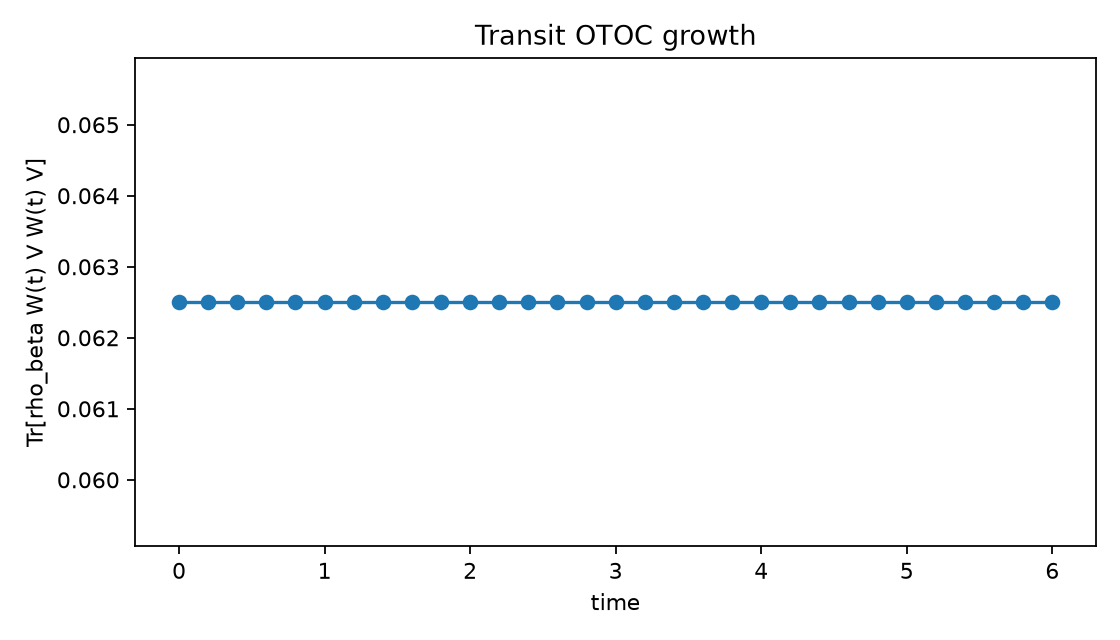
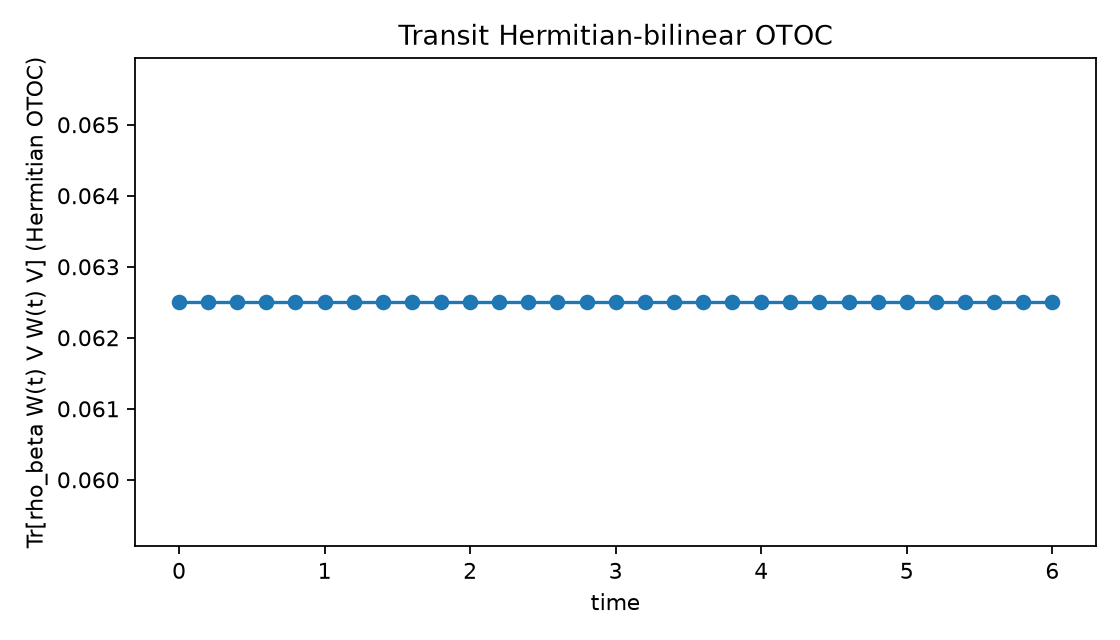
docs: clarify shared disorder and OTOC outputs

diff --git a/transit-meta-grammar/transit_syk.py b/transit-meta-grammar/transit_syk.py
@@ -216,6 +216,7 @@ def main() -> None:
     left_dim = left_majoranas_local[0].shape[0]
     right_dim = right_majoranas_local[0].shape[0]
 
+    # Shared disorder is intentional: both sides use the same deterministic coupling draw.
     disorder_rng = np.random.default_rng(DISORDER_SEED)
     h_left_local = syk_hamiltonian(left_majoranas_local, DEFAULT_J, disorder_rng)
     disorder_rng = np.random.default_rng(DISORDER_SEED)
@@ -383,8 +384,8 @@ def main() -> None:
     plt.figure(figsize=(7, 4))
     plt.plot(times, otoc_values, marker="o")
     plt.xlabel("time")
-    plt.ylabel("Tr[rho_beta W(t) V W(t) V]")
-    plt.title("Transit OTOC growth")
+    plt.ylabel("Tr[rho_beta W(t) V W(t) V] (Hermitian OTOC)")
+    plt.title("Transit Hermitian-bilinear OTOC")
     plt.tight_layout()
     plt.savefig(results_dir / "otoc_growth.png", dpi=160)
     plt.close()

diff --git a/transit-meta-grammar/README.md b/transit-meta-grammar/README.md
@@ -35,9 +35,9 @@ The script derives its output directory from `__file__`, so both invocations wri
 Runtime creates `transit-meta-grammar/results/` and writes:
 
 - `guard_summary.csv` — scalar guard probabilities, barriers, commutator norm, Choi/guard comparison, and runtime objective flags.
-- `guard_spectrum.csv` — eigenvalue spectrum of `Pi_1 Pi_2 Pi_1`, reported as `lambda = cos^2(theta)` with principal angles and barrier values.
+- `guard_spectrum.csv` — eigenvalue spectrum of `K^dagger K = Pi_1 Pi_2 Pi_1`, reported as `lambda = cos^2(theta)` with principal angles and barrier values.
 - `information_flow.csv` — conditioned successful-branch information quantities `I(A:D)`, `I(A:E)`, `2S(A)`, and the residual in the pure-state balance identity.
-- `otoc.csv` — exact finite-dimensional OTOC samples over the configured time grid.
+- `otoc.csv` — exact finite-dimensional Hermitian-bilinear OTOC samples over the configured time grid.
 - `guard_barrier_spectrum.png` — plot of guard spectral barrier values.
 - `information_balance.png` — bar chart comparing `I(A:D)`, `I(A:E)`, and `2S(A)` after conditioning.
 - `otoc_growth.png` — OTOC trajectory under exact time evolution.
@@ -46,7 +46,7 @@ Generated plots are runtime artifacts and should not be committed unless reposit
 
 ## Mathematical definitions
 
-Let the River Hilbert space be `H_River = H_L \otimes H_R`, with `N=6` Majoranas per side, Jordan-Wigner Majoranas normalized as `chi = gamma / sqrt(2)`, and shared-disorder `q=4` SYK Hamiltonians on the two sides. The coupled River Hamiltonian is
+Let the River Hilbert space be `H_River = H_L \otimes H_R`, with `N=6` Majoranas per side, Jordan-Wigner Majoranas normalized as `chi = gamma / sqrt(2)`, and shared-disorder `q=4` SYK Hamiltonians on the two sides (the deterministic realization intentionally reuses the same coupling draw for left and right). The coupled River Hamiltonian is
 
 ```text
 H_River = H_L + H_R + i mu sum_j chi_L^j chi_R^j.
